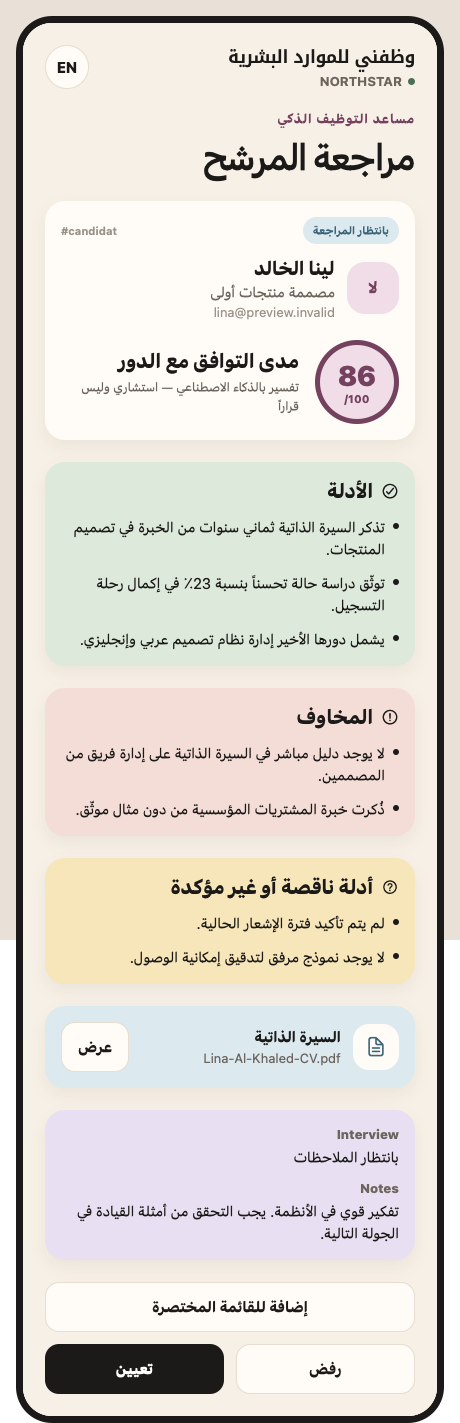
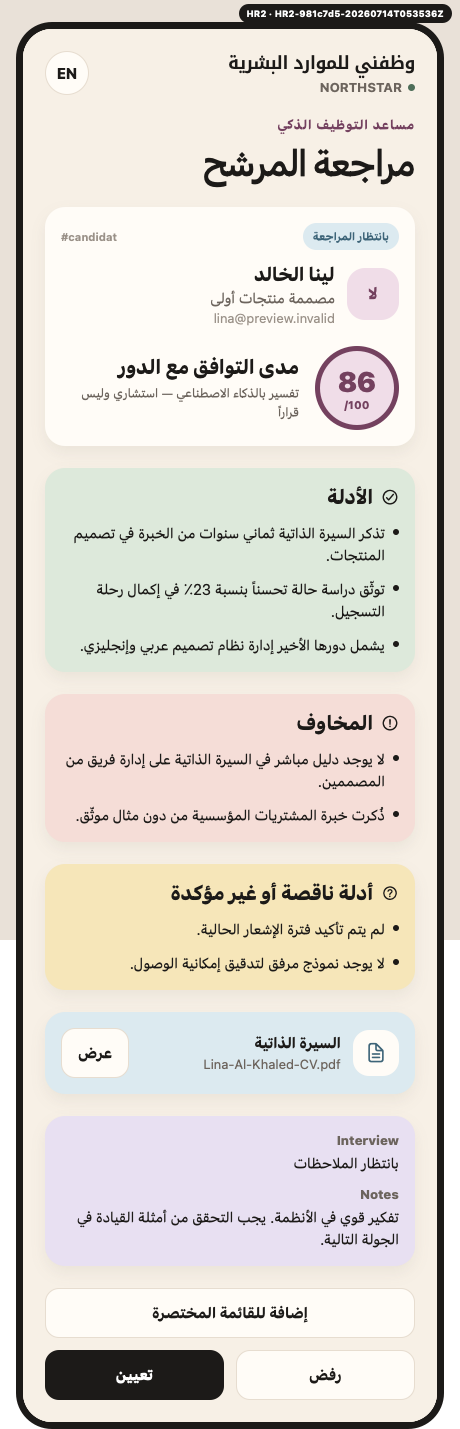
feat: harden HR phone preview for LAN review
Expose fixture-only review on an explicit private interface with artifact markers, no-store headers, URL-state reload checks, and refreshed bilingual evidence.

diff --git a/apps/wathefni-hr-mobile/app/design-preview.tsx b/apps/wathefni-hr-mobile/app/design-preview.tsx
@@ -18,6 +18,7 @@ import { colors, radius, spacing, type as typography } from '@/theme'
 const screens = ['home', 'leave', 'candidate'] as const
 const operators = ['hr-only', 'recruiter-only', 'restricted-manager', 'multi-workspace'] as const
 const scenarios = ['ready', 'loading', 'empty', 'error', 'revoked', 'company-disabled', 'stale', 'success'] as const
+const previewBuild = process.env.EXPO_PUBLIC_HR_PREVIEW_BUILD || 'UNMARKED'
 type PreviewScreen = (typeof screens)[number]
 type Operator = (typeof operators)[number]
 type Scenario = (typeof scenarios)[number]
@@ -93,6 +94,13 @@ function Preview({
 
   return (
     <View style={styles.root}>
+      <View
+        accessibilityLabel={`Preview build ${previewBuild}`}
+        pointerEvents="none"
+        style={styles.buildMarker}
+      >
+        <Text style={styles.buildMarkerText}>HR2 · {previewBuild}</Text>
+      </View>
       {controls}
       <View style={styles.phone}>
         {screen === 'home' ? (
@@ -165,7 +173,9 @@ function Control<T extends readonly string[]>({
 }
 
 const styles = StyleSheet.create({
-  root: { flex: 1, minHeight: '100%', backgroundColor: '#E9E1D8', alignItems: 'center', padding: spacing.lg, gap: spacing.lg },
+  root: { flex: 1, minHeight: '100%', position: 'relative', backgroundColor: '#E9E1D8', alignItems: 'center', padding: spacing.lg, paddingTop: spacing.xl, gap: spacing.lg },
+  buildMarker: { position: 'absolute', top: spacing.xs, right: spacing.sm, zIndex: 50, paddingHorizontal: spacing.sm, paddingVertical: 4, borderRadius: radius.pill, backgroundColor: colors.ink },
+  buildMarkerText: { color: colors.white, fontSize: 9, fontWeight: '800' },
   disabled: { flex: 1, alignItems: 'center', justifyContent: 'center', backgroundColor: colors.canvas },
   controls: { width: '100%', maxWidth: 900, padding: spacing.lg, backgroundColor: colors.surface, borderRadius: radius.lg, gap: spacing.md, borderWidth: 1, borderColor: colors.line },
   previewLabel: { color: colors.plum, fontSize: typography.label, fontWeight: '900' },

diff --git a/apps/wathefni-hr-mobile/docs/HR2_PHONE_REVIEW.md b/apps/wathefni-hr-mobile/docs/HR2_PHONE_REVIEW.md
@@ -1,0 +1,64 @@
+# HR-2 Phone Review Session
+
+Build marker: `HR2-981c7d5-20260714T053536Z`
+
+LAN base URL:
+
+`http://192.168.0.140:4177/design-preview`
+
+The server is bound only to `192.168.0.140`, not `0.0.0.0`. It serves fixture
+data only, sends `Cache-Control: no-store`, refuses non-RFC1918 bind addresses,
+and exposes the build marker both visibly and in `X-Preview-Build`.
+
+## Primary review URLs
+
+- HR Home, English:
+  `http://192.168.0.140:4177/design-preview?screen=home&locale=en&operator=multi-workspace&scenario=ready`
+- Leave Approval, English:
+  `http://192.168.0.140:4177/design-preview?screen=leave&locale=en&operator=hr-only&scenario=ready`
+- AI Recruiter Candidate Review, English:
+  `http://192.168.0.140:4177/design-preview?screen=candidate&locale=en&operator=recruiter-only&scenario=ready`
+
+## English and Arabic
+
+- HR Home, Arabic:
+  `http://192.168.0.140:4177/design-preview?screen=home&locale=ar&operator=multi-workspace&scenario=ready`
+- Leave Approval, Arabic:
+  `http://192.168.0.140:4177/design-preview?screen=leave&locale=ar&operator=restricted-manager&scenario=ready`
+- Candidate Review, Arabic:
+  `http://192.168.0.140:4177/design-preview?screen=candidate&locale=ar&operator=recruiter-only&scenario=ready`
+
+## Operator and scenario matrix
+
+- HR-only, empty:
+  `http://192.168.0.140:4177/design-preview?screen=home&locale=en&operator=hr-only&scenario=empty`
+- Restricted manager, revoked permission:
+  `http://192.168.0.140:4177/design-preview?screen=home&locale=en&operator=restricted-manager&scenario=revoked`
+- HR-only, disabled company:
+  `http://192.168.0.140:4177/design-preview?screen=home&locale=en&operator=hr-only&scenario=company-disabled`
+- HR-only, loading:
+  `http://192.168.0.140:4177/design-preview?screen=leave&locale=en&operator=hr-only&scenario=loading`
+- HR-only, stale decision:
+  `http://192.168.0.140:4177/design-preview?screen=leave&locale=en&operator=hr-only&scenario=stale`
+- HR-only, successful decision:
+  `http://192.168.0.140:4177/design-preview?screen=leave&locale=en&operator=hr-only&scenario=success`
+- Multi-workspace, error:
+  `http://192.168.0.140:4177/design-preview?screen=candidate&locale=en&operator=multi-workspace&scenario=error`
+- Multi-workspace, revoked permission:
+  `http://192.168.0.140:4177/design-preview?screen=candidate&locale=en&operator=multi-workspace&scenario=revoked`
+
+## Verification
+
+- listener: `192.168.0.140:4177` only;
+- preview scenarios: `14 × Chromium + WebKit`, all passed;
+- URL state preserved after reload in both engines;
+- stale service-worker registration count: `0`;
+- screenshots regenerated for all three screens in English and Arabic;
+- TypeScript: passed;
+- frontend tests: `15/15`;
+- Expo Doctor: `20/20`.
+
+Final physical iPhone Safari acceptance requires opening the URLs on the same
+Wi-Fi and reloading at least one English and one Arabic URL. Automated WebKit
+proof is complete, but it is not a substitute for the reviewer’s physical
+device confirmation.
